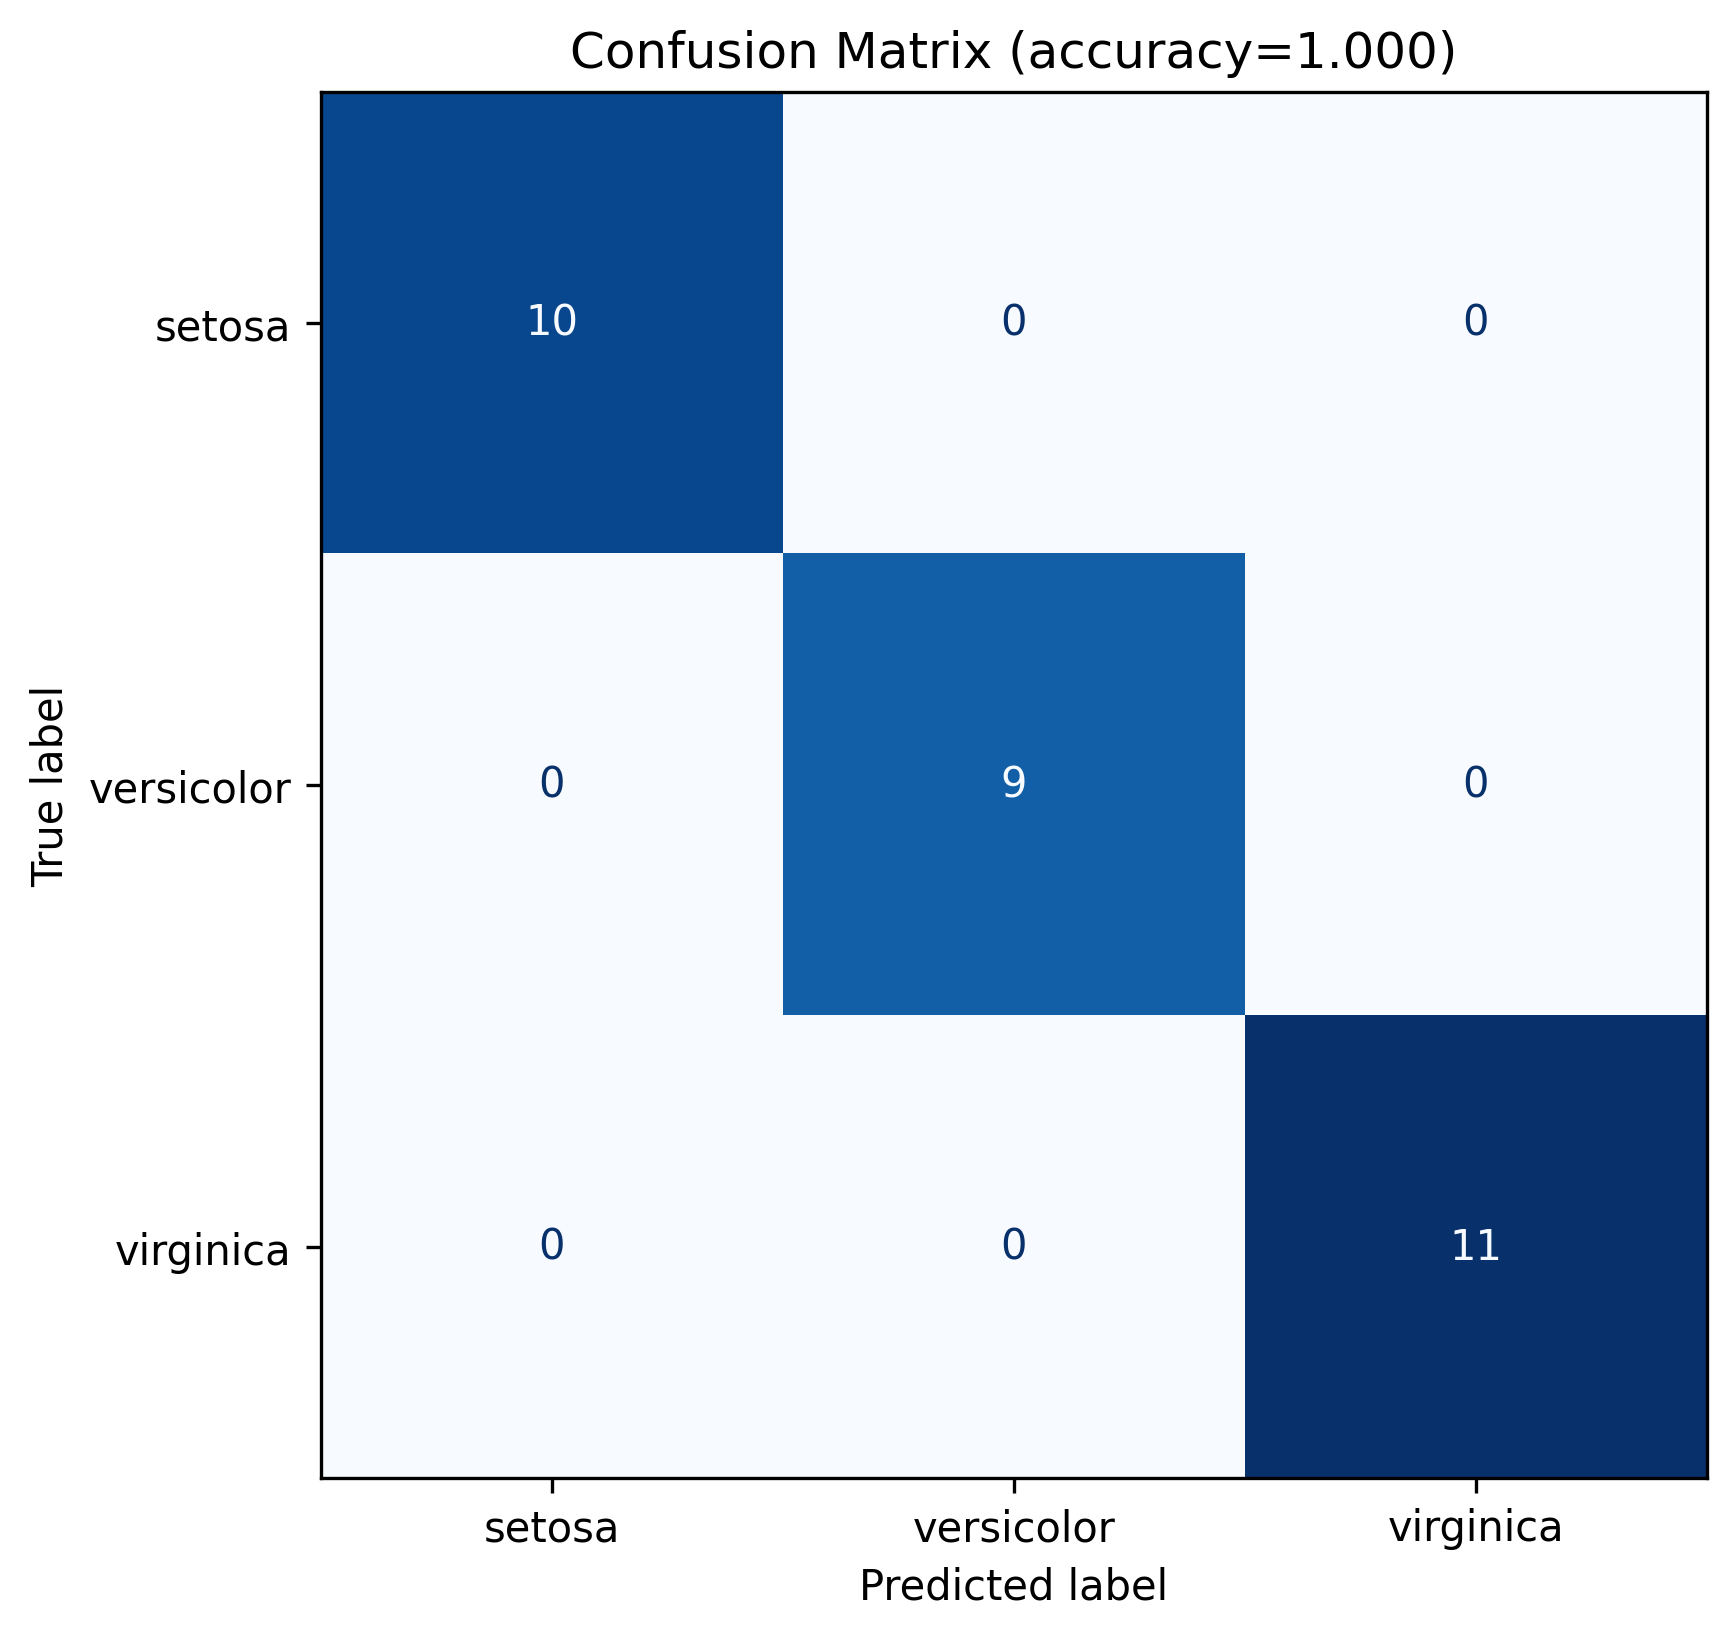
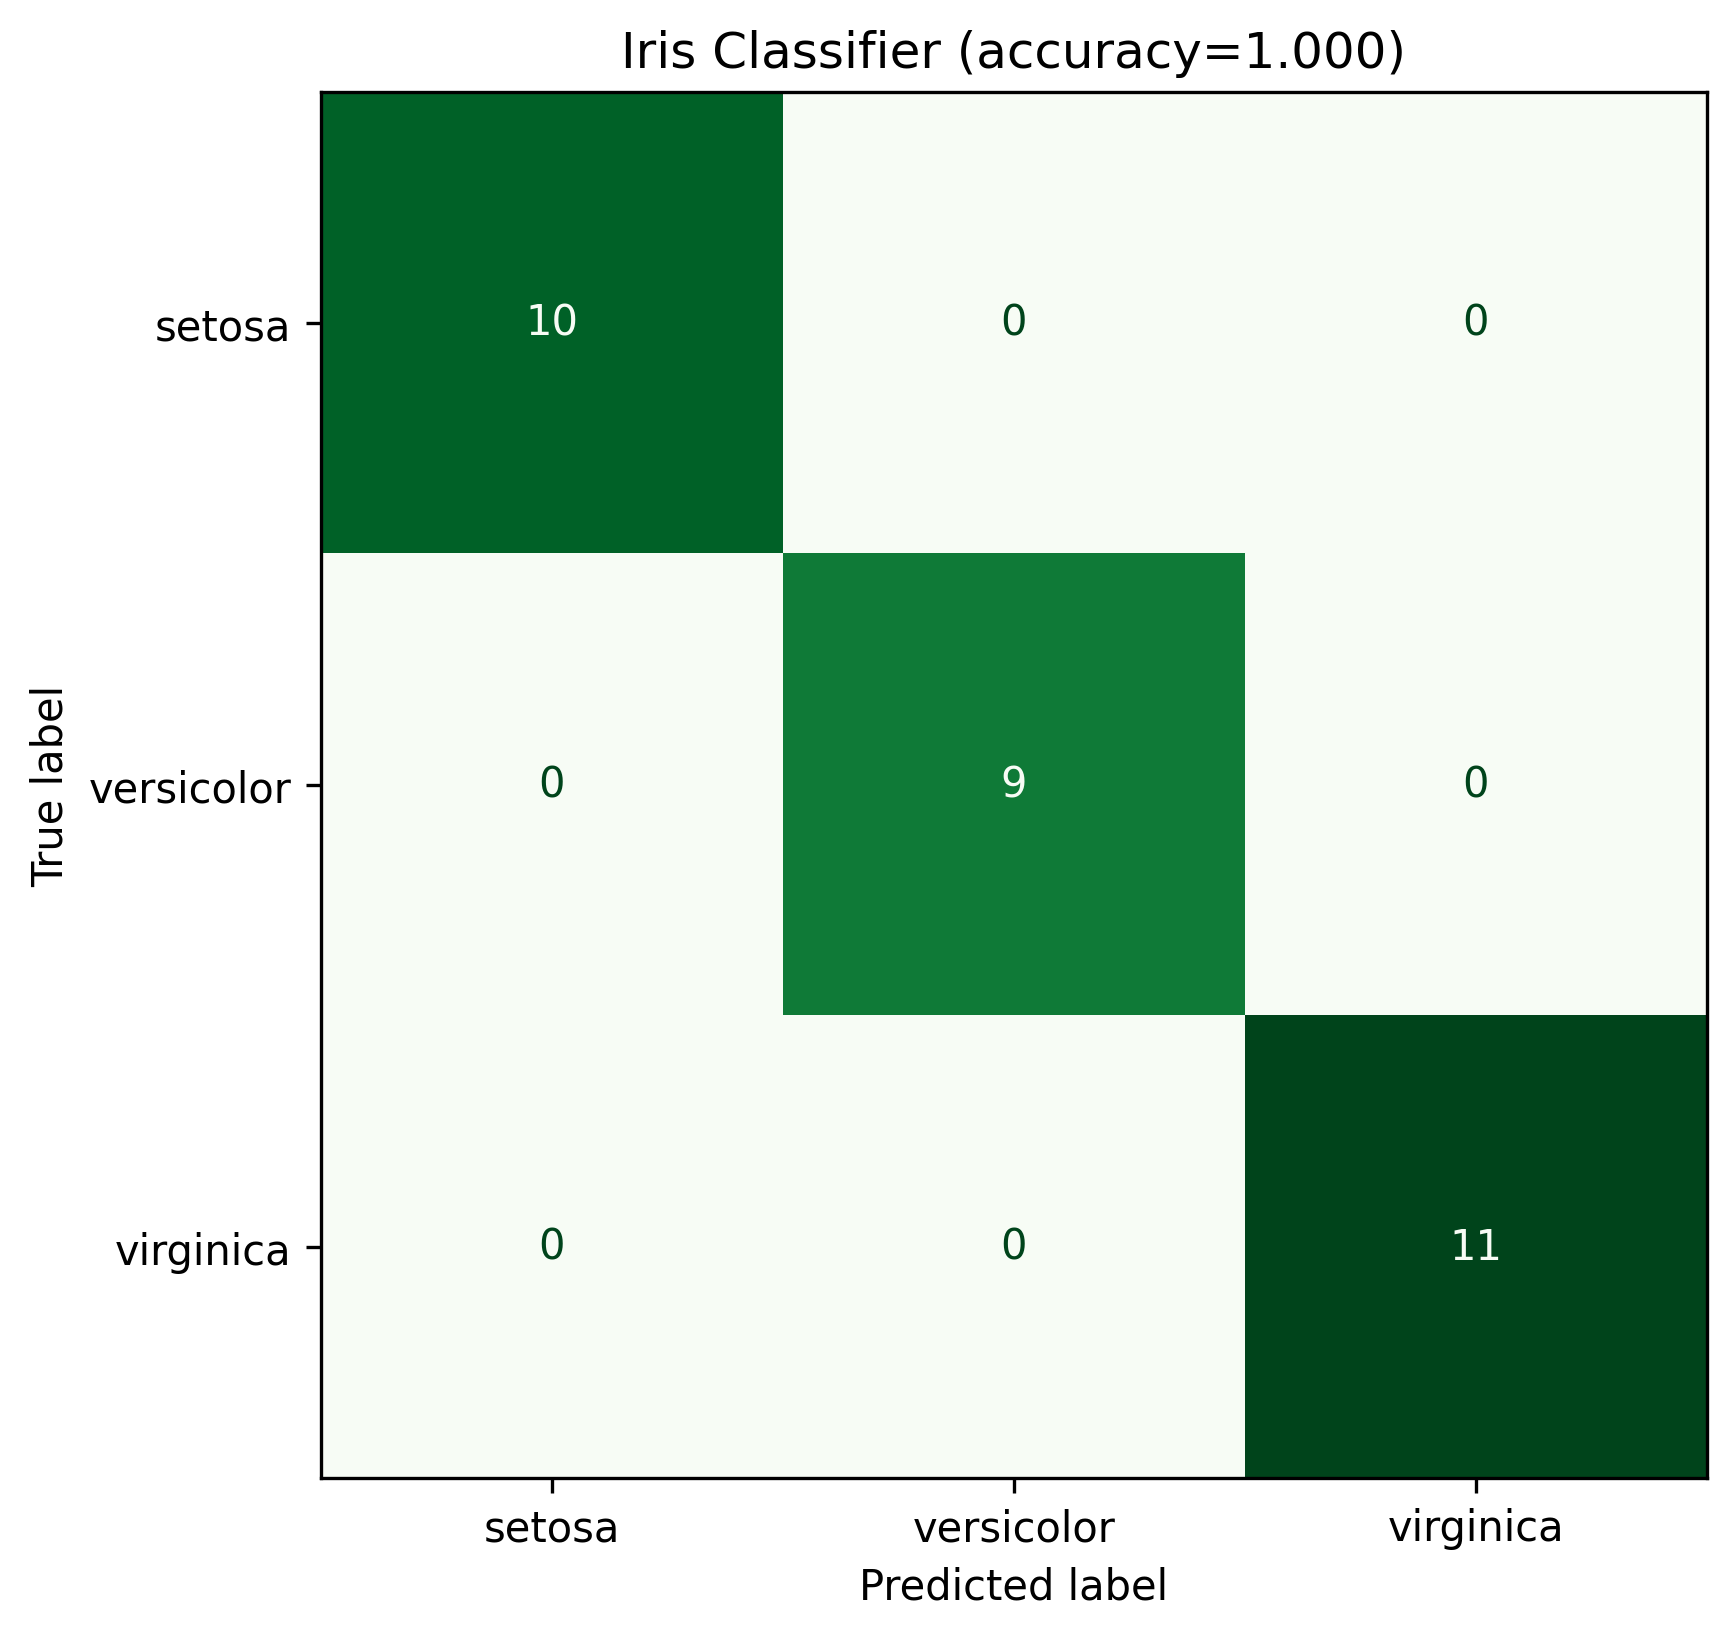
Update
Upsate

diff --git a/src/train.py b/src/train.py
@@ -50,9 +50,9 @@ disp = ConfusionMatrixDisplay(
 
 fig, ax = plt.subplots(figsize=(6, 6))
 
-disp.plot(ax=ax, cmap=plt.cm.Blues, colorbar=False)
+disp.plot(ax=ax, cmap=plt.cm.Greens, colorbar=False)
 
-ax.set_title(f"Confusion Matrix (accuracy={accuracy:.3f})")
+ax.set_title(f"Iris Classifier (accuracy={accuracy:.3f})")
 
 plt.savefig("outputs/confusion_matrix.png", dpi=300, bbox_inches="tight")
 
